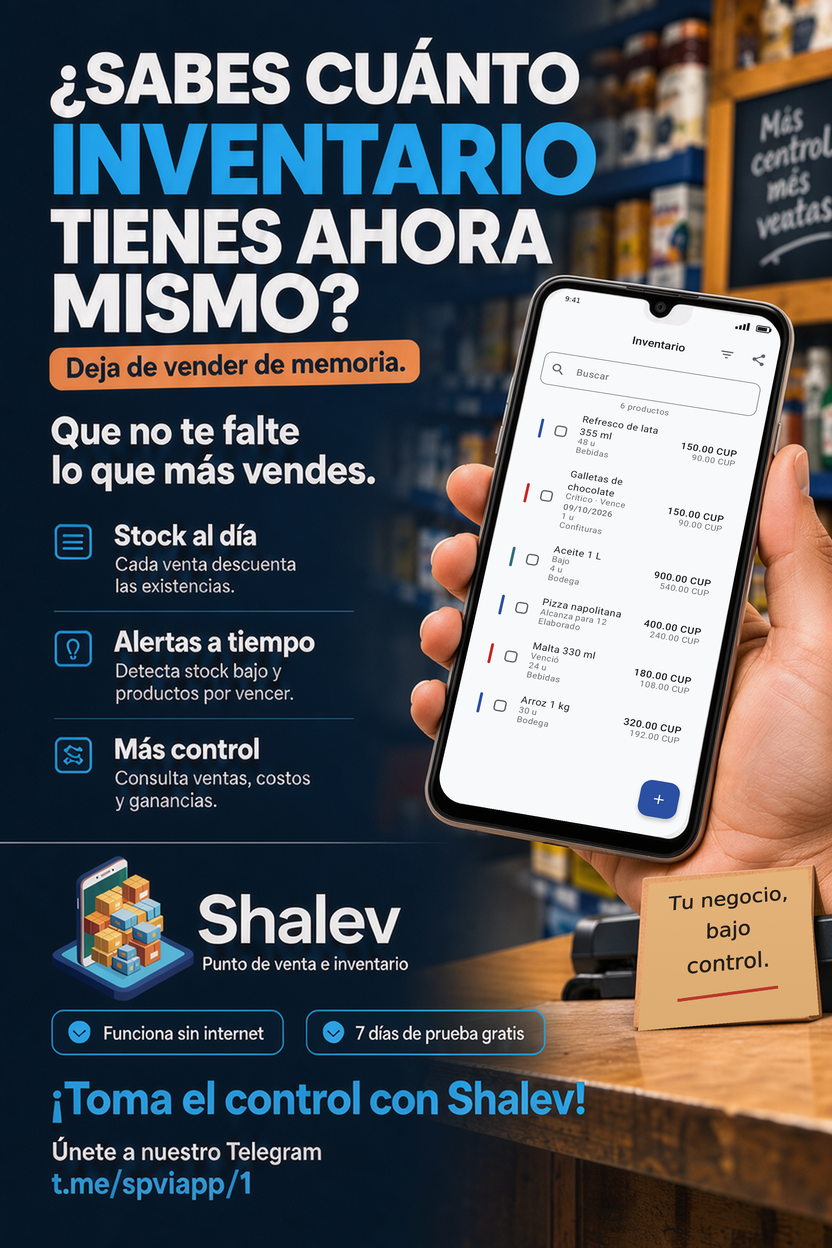
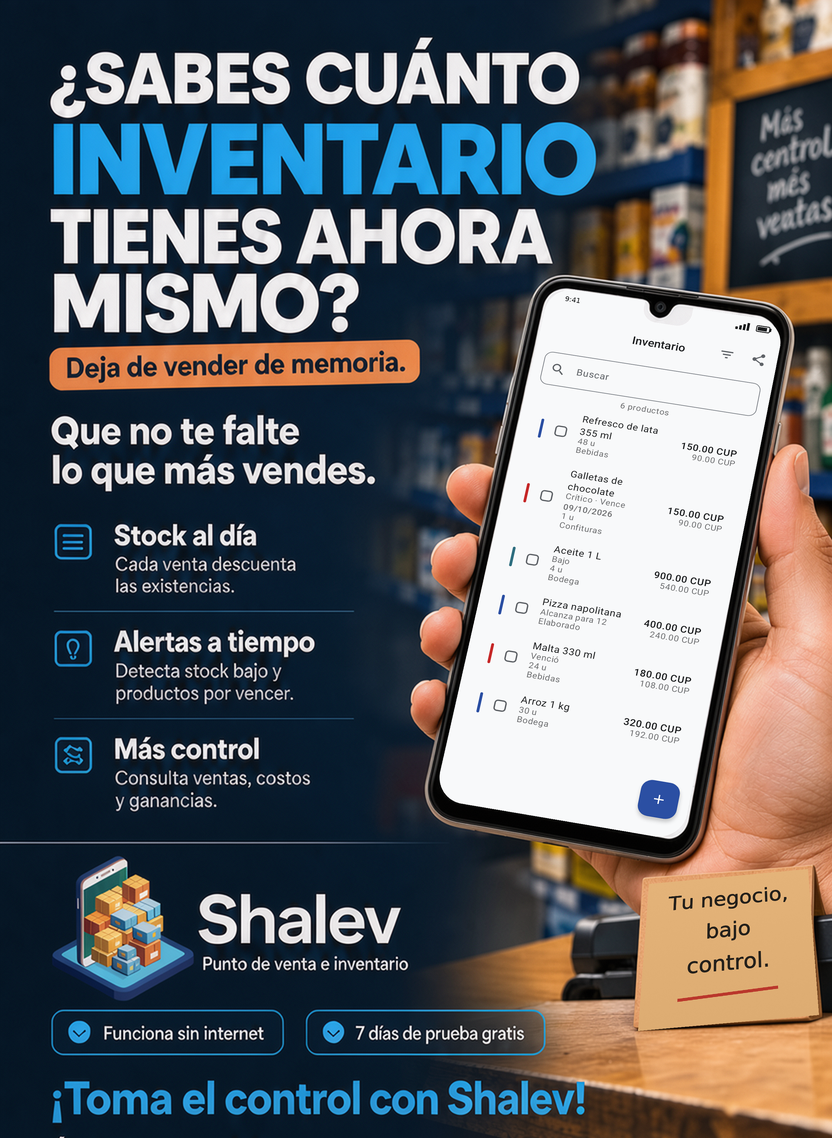
compile

diff --git a/app/src/main/kotlin/cu/shalev/app/inicio/InicioScreen.kt b/app/src/main/kotlin/cu/shalev/app/inicio/InicioScreen.kt
@@ -1,11 +1,17 @@
 package cu.shalev.app.inicio
 
+import androidx.compose.animation.AnimatedContent
+import androidx.compose.animation.fadeIn
+import androidx.compose.animation.fadeOut
+import androidx.compose.animation.togetherWith
+import androidx.compose.foundation.background
 import androidx.compose.foundation.layout.Arrangement
 import androidx.compose.foundation.layout.Box
 import androidx.compose.foundation.layout.Column
 import androidx.compose.foundation.layout.IntrinsicSize
 import androidx.compose.foundation.layout.PaddingValues
 import androidx.compose.foundation.layout.Row
+import androidx.compose.foundation.layout.Spacer
 import androidx.compose.foundation.layout.fillMaxHeight
 import androidx.compose.foundation.layout.fillMaxSize
 import androidx.compose.foundation.layout.fillMaxWidth
@@ -47,11 +53,6 @@ import androidx.compose.ui.semantics.contentDescription
 import androidx.compose.ui.semantics.heading
 import androidx.compose.ui.semantics.liveRegion
 import androidx.compose.ui.semantics.semantics
-import androidx.compose.ui.semantics.clearAndSetSemantics
-import androidx.compose.ui.semantics.contentDescription
-import androidx.compose.ui.semantics.heading
-import androidx.compose.ui.semantics.liveRegion
-import androidx.compose.ui.semantics.semantics
 import androidx.compose.ui.semantics.selected
 import androidx.compose.ui.semantics.stateDescription
 import androidx.compose.ui.text.style.TextAlign
@@ -60,6 +61,7 @@ import androidx.lifecycle.Lifecycle
 import androidx.lifecycle.compose.LifecycleEventEffect
 import androidx.lifecycle.compose.collectAsStateWithLifecycle
 import cu.shalev.app.navigation.Route
+import cu.shalev.app.notificacion.rememberPedirPermisoAviso
 import cu.shalev.core.money.Cup
 import cu.shalev.core.money.Money
 import cu.shalev.core.money.Percent
@@ -89,6 +91,7 @@ import cu.shalev.designsystem.component.shalevAnimateItem
 import cu.shalev.designsystem.icon.ShalevIcons
 import cu.shalev.designsystem.theme.AlertTone
 import cu.shalev.designsystem.theme.ShalevTheme
+import cu.shalev.designsystem.theme.ShalevTextos
 import cu.shalev.designsystem.theme.of
 import cu.shalev.designsystem.token.ColorTokens
 import cu.shalev.designsystem.token.ShalevMotion
@@ -104,7 +107,6 @@ import java.time.ZoneId
 import kotlinx.coroutines.launch
 
 import cu.shalev.app.ubicacion.LocalViewModel
-import cu.shalev.app.ubicacion.LocalInicioSelector
 
 object InicioTags {
     const val LISTA = "inicio_lista"
@@ -261,6 +263,7 @@ fun InicioScreen(
         caja = caja,
         snackbar = snackbar,
         conteoVm = conteoVm,
+        localViewModel = localViewModel,
     )
 }
 
@@ -277,6 +280,8 @@ fun InicioContent(
     /** Solo para capturas: abre todos los acordeones (en la app empiezan siempre cerrados). */
     acordeonesAbiertos: Boolean = false,
     conteoVm: cu.shalev.app.caja.CierreConteoViewModel? = null,
+    /** Selector del local único; null en capturas y pruebas sin Hilt. */
+    localViewModel: LocalViewModel? = null,
 ) {
     val permisos = cu.shalev.app.common.LocalPermisosApp.current
     val acordeones = remember { AcordeonesInicio(acordeonesAbiertos) }
@@ -311,7 +316,7 @@ fun InicioContent(
                 // mientras el resto de Inicio hace scroll.
                 
                 // --- NUEVO: Combobox único de Local en Inicio ---
-                LocalInicioSelector(localViewModel)
+                localViewModel?.let { LocalInicioSelector(it) }
                 
                 BloqueFijo(state, acciones, permisos, zona)
                 val estadoLista = remember { LazyListState() }

diff --git a/data/src/androidTest/kotlin/cu/shalev/data/AlmacenLocalRoomTest.kt b/data/src/androidTest/kotlin/cu/shalev/data/AlmacenLocalRoomTest.kt
@@ -4,8 +4,7 @@ import androidx.room.Room
 import androidx.test.core.app.ApplicationProvider
 import androidx.test.ext.junit.runners.AndroidJUnit4
 import cu.shalev.data.db.ShalevDatabase
-import cu.shalev.data.repository.AlmacenLocalRepositoryImpl
-import cu.shalev.domain.repository.VentanaUbicacion
+import cu.shalev.data.repository.LocalRepositoryImpl
 import kotlinx.coroutines.flow.first
 import kotlinx.coroutines.runBlocking
 import org.junit.Assert.*
@@ -14,20 +13,17 @@ import org.junit.runner.RunWith
 
 @RunWith(AndroidJUnit4::class)
 class AlmacenLocalRoomTest {
-    @Test fun seleccionesIndependientesHistorialSinDuplicadosYVaciado() = runBlocking {
+    @Test fun localUnicoNormalizadoSinDuplicadosYVaciado() = runBlocking {
         val db = Room.inMemoryDatabaseBuilder(ApplicationProvider.getApplicationContext(), ShalevDatabase::class.java).build()
         try {
-            val repo = AlmacenLocalRepositoryImpl(db)
+            val repo = LocalRepositoryImpl(db)
             assertTrue(repo.observar().first().isEmpty())
-            repo.seleccionar(VentanaUbicacion.INVENTARIO, " Almacén   central ")
-            repo.seleccionar(VentanaUbicacion.SERVICIOS, "Tienda")
-            repo.seleccionar(VentanaUbicacion.INVENTARIO, "TIENDA")
-            val lista = repo.observar().first()
-            assertEquals(2, lista.size)
-            assertEquals("Tienda", lista.single { it.inventario }.nombre)
-            assertEquals("Tienda", lista.single { it.servicios }.nombre)
-            repo.seleccionar(VentanaUbicacion.INVENTARIO, "Almacén central")
-            assertEquals("Tienda", repo.observar().first().single { it.servicios }.nombre)
+            repo.seleccionar(" Almacén   central ")
+            assertEquals("Almacén central", repo.observar().first().single().nombre)
+            repo.seleccionar("ALMACÉN CENTRAL")
+            assertEquals(1, repo.observar().first().size)
+            repo.seleccionar("Tienda")
+            assertEquals("Tienda", repo.observar().first().single().nombre)
             db.mantenimientoDao().borrarConfiguracion()
             assertTrue(repo.observar().first().isEmpty())
         } finally { db.close() }

diff --git a/app/src/main/kotlin/cu/shalev/app/inicio/LocalInicioSelector.kt b/app/src/main/kotlin/cu/shalev/app/inicio/LocalInicioSelector.kt
@@ -2,14 +2,16 @@ package cu.shalev.app.inicio
 
 import androidx.compose.foundation.layout.padding
 import androidx.compose.runtime.Composable
+import androidx.compose.runtime.getValue
+import androidx.compose.runtime.mutableStateOf
 import androidx.compose.runtime.remember
+import androidx.compose.runtime.setValue
 import androidx.compose.ui.Modifier
+import androidx.compose.ui.platform.testTag
 import androidx.hilt.navigation.compose.hiltViewModel
-import cu.shalev.app.navigation.Route
 import cu.shalev.designsystem.component.ShalevComboBoxEditable
 import cu.shalev.designsystem.token.ShalevSpacing
-import cu.shalev.domain.repository.AlmacenLocal
-import cu.shalev.domain.repository.VentanaUbicacion
+import cu.shalev.domain.repository.Local
 import kotlinx.coroutines.flow.catch
 import kotlinx.coroutines.flow.map
 import androidx.lifecycle.compose.collectAsStateWithLifecycle
@@ -22,7 +24,7 @@ import androidx.lifecycle.compose.collectAsStateWithLifecycle
 fun LocalInicioSelector(viewModel: cu.shalev.app.ubicacion.LocalViewModel = hiltViewModel()) {
     // null distingue la carga de un historial realmente vacío
     val flujo = remember(viewModel) {
-        viewModel.locales.map<List<AlmacenLocal>, List<AlmacenLocal>?> { it }
+        viewModel.locales.map<List<Local>, List<Local>?> { it }
             .catch { viewModel.error.value = "No se pudieron cargar los locales."; emit(null) }
     }
     val locales by flujo.collectAsStateWithLifecycle(initialValue = null)

diff --git a/data/src/debug/kotlin/cu/shalev/data/seed/Sembrador.kt b/data/src/debug/kotlin/cu/shalev/data/seed/Sembrador.kt
@@ -211,6 +211,7 @@ class Sembrador(
 
     private val consumoProducto = LongArray(productos.size)
     private val consumoInsumo = LongArray(insumos.size) // milésimas
+    private val nombreLocalUnico = "Local"
 
     suspend fun sembrar(): String {
         val inicio = clock.now()
@@ -346,9 +347,10 @@ class Sembrador(
         db.withTransaction {
             db.mantenimientoDao().borrarOperacion()
             db.mantenimientoDao().borrarConfiguracion()
-            // Semilla repetible: historial compartido y un único local para ambos.\n            db.almacenLocalDao().borrar()\n            // --- CAMBIO: ÚNICO LOCAL PARA INVENTARIO Y SERVICIOS ---
+            // Semilla repetible: historial compartido y un único local para ambos.
+            db.almacenLocalDao().borrar()
+            // --- CAMBIO: ÚNICO LOCAL PARA INVENTARIO Y SERVICIOS ---
             // Se crea un único local "Local" que se asocia a ambas ventanas.
-            val nombreLocalUnico = "Local"
             db.almacenLocalDao().insertar(cu.shalev.data.db.entity.AlmacenLocalEntity(nombreLocalUnico, inventario = true, servicios = true))
             // Las apps vinculadas no las borra el vaciado de respaldo (no viajan en él): se limpian aquí.
             db.openHelper.writableDatabase.execSQL("DELETE FROM empleado")

diff --git a/app/src/main/kotlin/cu/shalev/app/ubicacion/LocalCampo.kt b/app/src/main/kotlin/cu/shalev/app/ubicacion/LocalCampo.kt
@@ -9,8 +9,7 @@ import androidx.hilt.navigation.compose.hiltViewModel
 import androidx.lifecycle.compose.collectAsStateWithLifecycle
 import cu.shalev.designsystem.component.ShalevComboBoxEditable
 import cu.shalev.designsystem.token.ShalevSpacing
-import cu.shalev.domain.repository.AlmacenLocal
-import cu.shalev.domain.repository.VentanaUbicacion
+import cu.shalev.domain.repository.Local
 import kotlinx.coroutines.flow.catch
 import kotlinx.coroutines.flow.map
 
@@ -18,7 +17,7 @@ import kotlinx.coroutines.flow.map
 fun LocalCampo(editable: Boolean, viewModel: LocalViewModel = hiltViewModel()) {
     // null distingue la carga de un historial realmente vacío y evita sobrescribir la selección al abrir.
     val flujo = remember(viewModel) {
-        viewModel.locales.map<List<AlmacenLocal>, List<AlmacenLocal>?> { it }
+        viewModel.locales.map<List<Local>, List<Local>?> { it }
             .catch { viewModel.error.value = "No se pudieron cargar los locales."; emit(null) }
     }
     val locales by flujo.collectAsStateWithLifecycle(initialValue = null)

diff --git a/domain/src/test/kotlin/cu/shalev/domain/AlmacenLocalTest.kt b/domain/src/test/kotlin/cu/shalev/domain/AlmacenLocalTest.kt
@@ -1,18 +1,18 @@
 package cu.shalev.domain
 
-import cu.shalev.domain.repository.NombresAlmacenLocal
+import cu.shalev.domain.repository.NombresLocal
 import org.junit.Assert.assertEquals
 import org.junit.Test
 
 class AlmacenLocalTest {
     @Test fun normalizaEspaciosSinPerderAcentos() {
-        assertEquals("Almacén central", NombresAlmacenLocal.validar("  Almacén\n  central  "))
+        assertEquals("Almacén central", NombresLocal.validar("  Almacén\n  central  "))
     }
     @Test(expected = IllegalArgumentException::class) fun rechazaVacio() {
-        NombresAlmacenLocal.validar("  ")
+        NombresLocal.validar("  ")
     }
     @Test(expected = IllegalArgumentException::class) fun rechazaNombreLargo() {
-        NombresAlmacenLocal.validar("a".repeat(81))
+        NombresLocal.validar("a".repeat(81))
     }
-    @Test fun admiteLimite() { assertEquals(80, NombresAlmacenLocal.validar("a".repeat(80)).length) }
+    @Test fun admiteLimite() { assertEquals(80, NombresLocal.validar("a".repeat(80)).length) }
 }

diff --git a/data/src/main/kotlin/cu/shalev/data/respaldo/RespaldoRepositoryImpl.kt b/data/src/main/kotlin/cu/shalev/data/respaldo/RespaldoRepositoryImpl.kt
@@ -205,7 +205,7 @@ class RespaldoRepositoryImpl @Inject constructor(
                     caja = dto.caja,
                     clientesFijos = dto.clientesFijos.distinctBy { it.ci },
                     almacenesLocales = dto.almacenesLocales.map {
-                        it.copy(nombre = cu.shalev.domain.repository.NombresAlmacenLocal.validar(it.nombre))
+                        it.copy(nombre = cu.shalev.domain.repository.NombresLocal.validar(it.nombre))
                     }.also { xs ->
                         require(xs.count { it.inventario } <= 1 && xs.count { it.servicios } <= 1)
                         require(xs.map { it.nombre.lowercase(java.util.Locale.ROOT) }.distinct().size == xs.size)

diff --git a/data/src/main/kotlin/cu/shalev/data/di/DataModule.kt b/data/src/main/kotlin/cu/shalev/data/di/DataModule.kt
@@ -39,7 +39,7 @@ import kotlinx.coroutines.Dispatchers
 @Module
 @InstallIn(SingletonComponent::class)
 abstract class DataModule {
-    @Binds abstract fun almacenLocal(impl: cu.shalev.data.repository.AlmacenLocalRepositoryImpl): cu.shalev.domain.repository.AlmacenLocalRepository
+    @Binds abstract fun almacenLocal(impl: cu.shalev.data.repository.LocalRepositoryImpl): cu.shalev.domain.repository.LocalRepository
     @Binds abstract fun licenseStore(impl: DataStoreLicenseStore): LicenseStore
     @Binds abstract fun licenciaRepository(impl: LicenciaRepositoryImpl): LicenciaRepository
     /** 0.31.0 (mitigación 7): clave con la que la principal firma los sub-tokens de las secundarias. */
